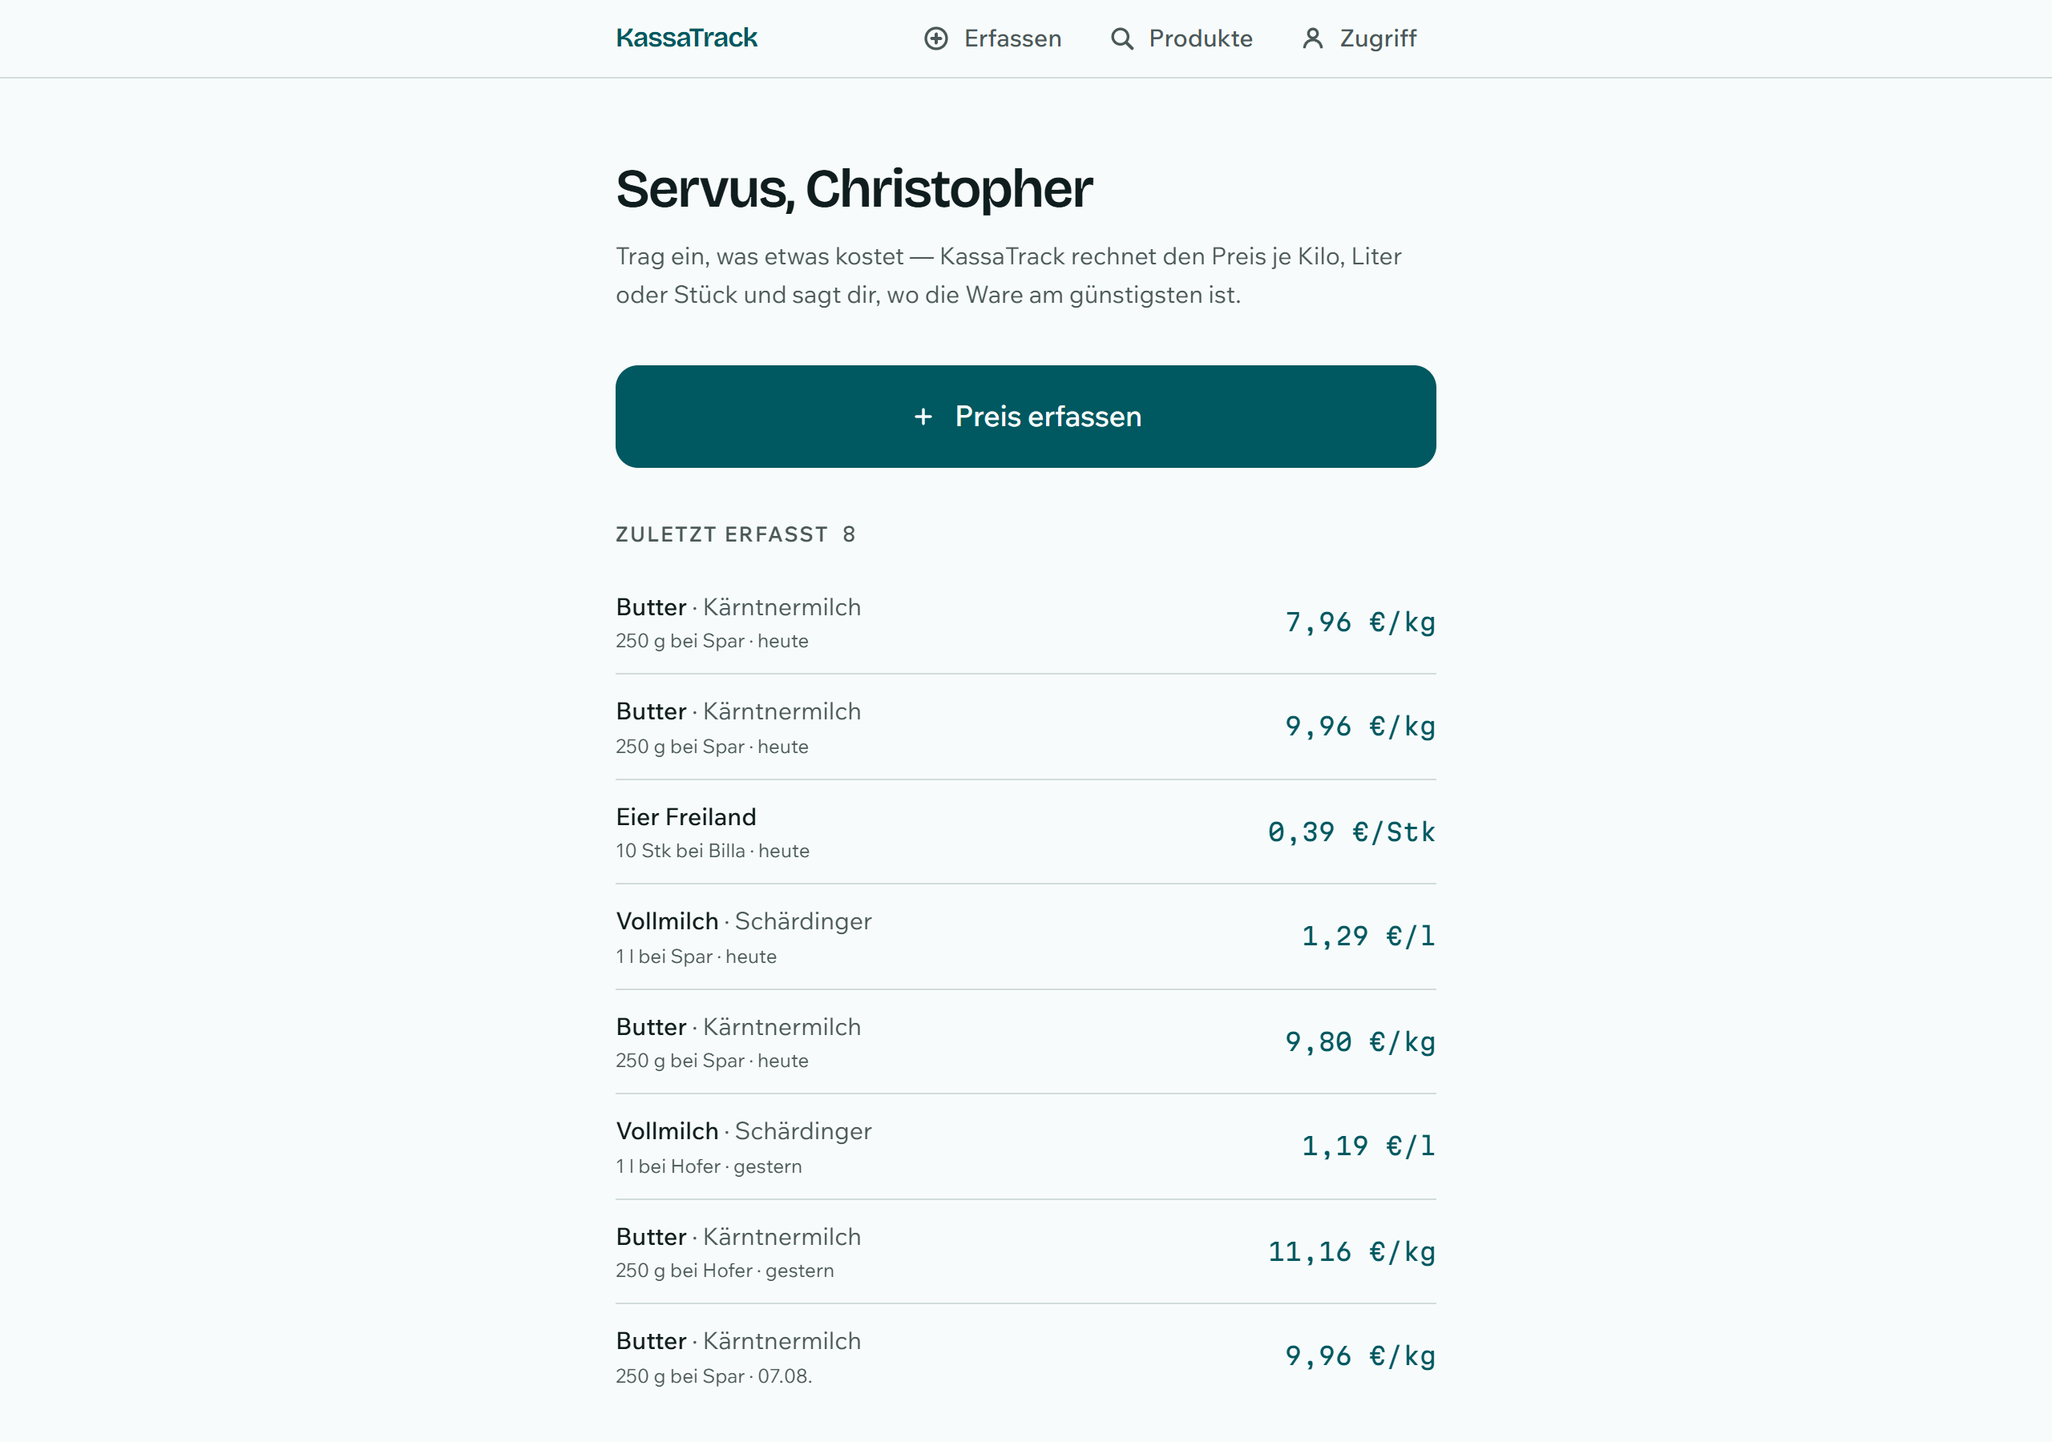
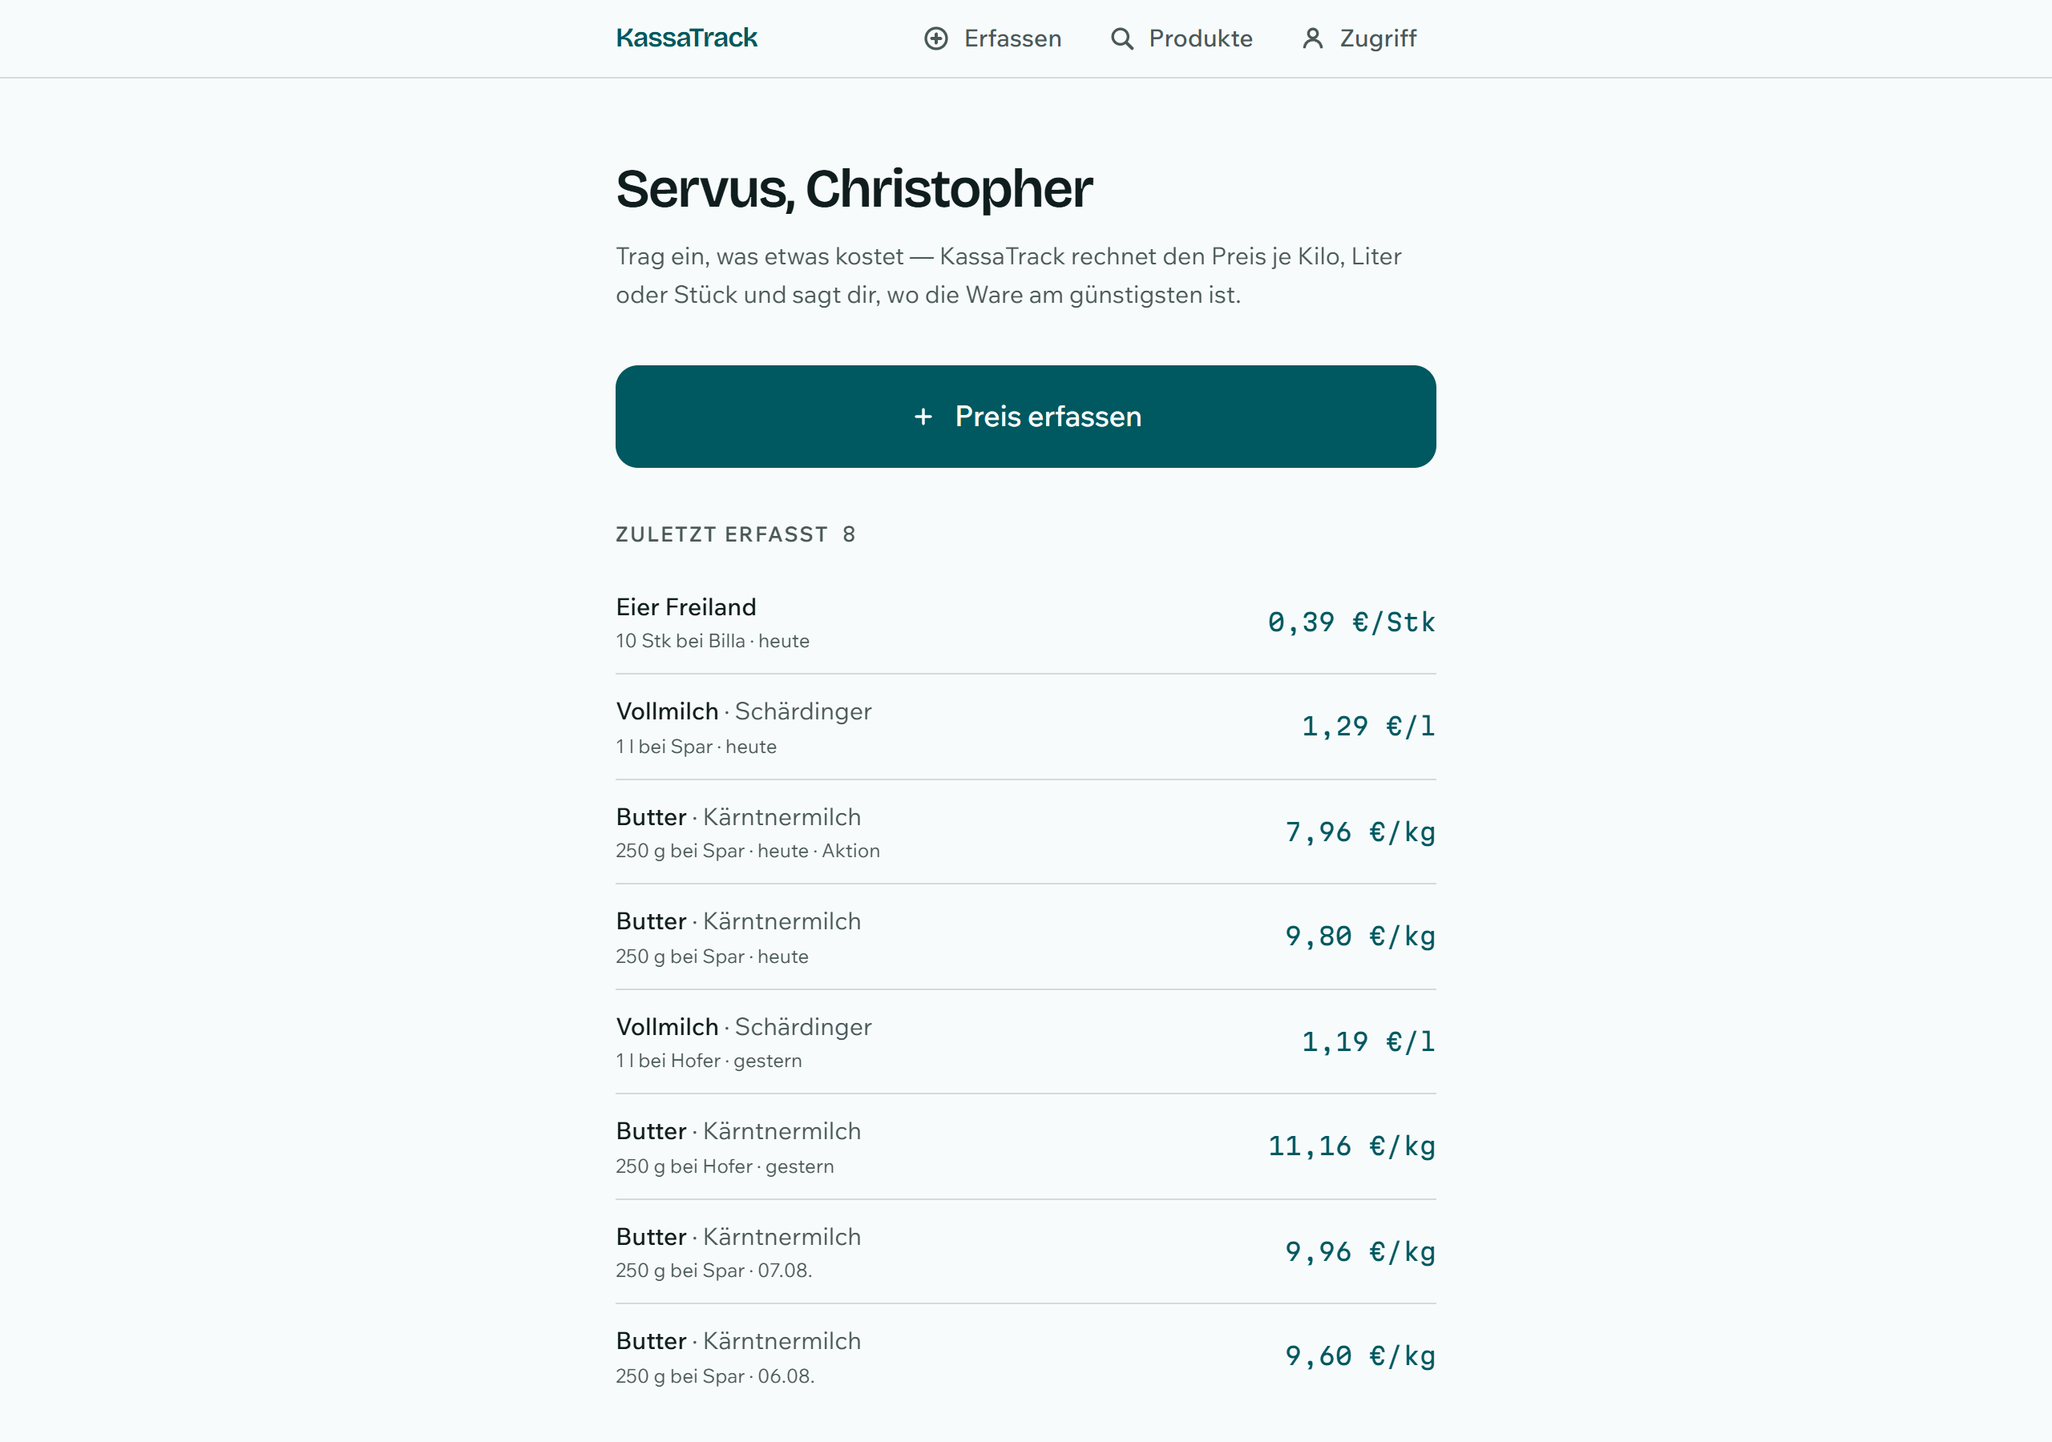
fix: Review-Runde 1 an Task 9 — Abdeckung, Aktionskennzeichnung, offene Punkte
holeLetzteErfassungen war die einzige Lesefunktion in preise.ts ohne Test
gegen echtes Postgres — ausgerechnet die mit zwei Verknuepfungen. Sechs Tests
dazu, plus ein zweites Produkt im Grundgeruest: Bei nur einem Produkt in einer
Kette saehe eine vertauschte Zuordnung genauso aus wie die richtige. Das
zweite Ordnungsmerkmal ist rot-gruen belegt — ohne desc(id) liefert Postgres
die Zeilen in Einfuegereihenfolge zurueck, also genau umgekehrt.

Auf der Startseite standen Aktionspreise ununterscheidbar neben Normalpreisen.
Zwei Butter-Preise derselben Kette von heute lasen sich wie widerspruechliche
Daten statt wie Regalpreis und Aktion — ausgerechnet auf dem meistgesehenen
Bildschirm, und ausgerechnet die Unterscheidung, um die es in diesem Plan
geht. preisart wird jetzt mitgefuehrt und angehaengt, sobald sie nicht
"Normal" ist. Gefiltert wird weiterhin nicht: Die Liste ist ein Protokoll.

benennePreisart haette es dadurch doppelt gegeben und ist deshalb zu
PREISARTEN gewandert, aus denen sie liest.

Die zurueckgestellten Punkte lagen nur im git-ignorierten Ledger und waeren
beim Merge spurlos verschwunden. Sie stehen jetzt in docs/offene-punkte.md,
die genau dagegen existiert — nur das, was nach dieser Runde offen bleibt.

start-handy.png und start-desktop.png neu gezogen: Letztere zeigte einen
Aktionspreis, damals noch ohne Kennzeichnung.

diff --git a/tests/preise.test.ts b/tests/preise.test.ts
@@ -1,7 +1,12 @@
 import { afterAll, beforeAll, beforeEach, describe, expect, it } from "bun:test";
 import { sql } from "drizzle-orm";
 import { migrate } from "drizzle-orm/node-postgres/migrator";
-import { bestesAngebot, holePreisMatrix, schreibeBeobachtung } from "@/lib/preise";
+import {
+  bestesAngebot,
+  holeLetzteErfassungen,
+  holePreisMatrix,
+  schreibeBeobachtung,
+} from "@/lib/preise";
 import { starteTestDatenbank, type TestDatenbank } from "./helfer/db";
 import { faengtFehler } from "./helfer/fehler";
 
@@ -27,10 +32,29 @@ async function grundgeruest() {
     values ('p1', 'Butter', 250, 'G')
   `);
 
+  /*
+   * Ein zweites Produkt allein für `holeLetzteErfassungen`: Die Funktion fragt
+   * quer über alle Produkte und Ketten ab, statt wie `holePreisMatrix` nach
+   * einer Kennung zu filtern. Mit nur einem Produkt ließe sich nicht zeigen,
+   * dass die beiden Verknüpfungen die richtige Zeile treffen — jede falsche
+   * Zuordnung sähe genauso aus wie die richtige.
+   *
+   * Für die übrigen Tests in dieser Datei ist es unsichtbar: Die fragen alle
+   * ausdrücklich nach `p1`.
+   */
+  await umgebung.db.execute(sql`
+    insert into product (id, name, marke, menge, einheit)
+    values ('p2', 'Vollmilch', 'Schärdinger', 1000, 'ML')
+  `);
+
   for (const kuerzel of ketten) {
     await umgebung.db.execute(sql`
       insert into store_product (id, chain_id, product_id)
       values (${"sp-" + kuerzel}, ${"c-" + kuerzel}, 'p1')
+    `);
+    await umgebung.db.execute(sql`
+      insert into store_product (id, chain_id, product_id)
+      values (${"sp2-" + kuerzel}, ${"c-" + kuerzel}, 'p2')
     `);
   }
 }
@@ -365,5 +389,154 @@ describe("bestesAngebot — das Butter-Szenario", () => {
     const { referenzSieger, heuteSieger } = bestesAngebot(await holePreisMatrix(umgebung.db, "p1"));
     expect(referenzSieger).toBeNull();
     expect(heuteSieger).toBeNull();
+  });
+});
+
+/**
+ * Schreibt eine Beobachtung mit einem gesetzten Zeitpunkt.
+ *
+ * `schreibeBeobachtung` nimmt keinen entgegen — die Spalte hat `defaultNow()`.
+ * Für die Reihenfolge braucht es aber auseinanderliegende Zeitpunkte, und für
+ * die Stichentscheidung ausdrücklich gleiche.
+ */
+async function beobachtungMitZeit(eingabe: {
+  id: string;
+  storeProductId: string;
+  chainId: string;
+  productId: string;
+  grundpreis: number;
+  vorTagen: number;
+  preisart?: string;
+}) {
+  await umgebung.db.execute(sql`
+    insert into price_observation
+      (id, store_product_id, chain_id, product_id, beobachtet_am, quelle, preisart,
+       einzelpreis, zeilensumme, grundpreis, aktion_gueltig_bis)
+    values (${eingabe.id}, ${eingabe.storeProductId}, ${eingabe.chainId}, ${eingabe.productId},
+            now() - (${String(eingabe.vorTagen)} || ' days')::interval, 'MANUAL',
+            ${eingabe.preisart ?? "NORMAL"}, 1, 1, ${eingabe.grundpreis},
+            ${eingabe.preisart === "PROMO" ? sql`now() + interval '3 days'` : sql`null`})
+  `);
+}
+
+describe("holeLetzteErfassungen", () => {
+  it("stellt das Jüngste zuoberst und schneidet bei der Obergrenze ab", async () => {
+    await beobachtungMitZeit({
+      id: "l-alt", storeProductId: "sp-spar", chainId: "c-spar", productId: "p1",
+      grundpreis: 9.6, vorTagen: 3,
+    });
+    await beobachtungMitZeit({
+      id: "l-mittel", storeProductId: "sp2-hofer", chainId: "c-hofer", productId: "p2",
+      grundpreis: 1.19, vorTagen: 2,
+    });
+    await beobachtungMitZeit({
+      id: "l-jung", storeProductId: "sp-billa", chainId: "c-billa", productId: "p1",
+      grundpreis: 10.36, vorTagen: 1,
+    });
+
+    const alle = await holeLetzteErfassungen(umgebung.db);
+    expect(alle.map((e) => e.id)).toEqual(["l-jung", "l-mittel", "l-alt"]);
+
+    // Die Obergrenze schneidet am jüngeren Ende ab, nicht am älteren.
+    const zwei = await holeLetzteErfassungen(umgebung.db, 2);
+    expect(zwei.map((e) => e.id)).toEqual(["l-jung", "l-mittel"]);
+  });
+
+  /*
+   * Die beiden Verknüpfungen. Geprüft wird über **zwei** Produkte in **zwei**
+   * Ketten: Bei nur einer Zeile sähe eine vertauschte Zuordnung genauso aus
+   * wie die richtige.
+   */
+  it("ordnet jeder Zeile ihr Produkt und ihre Kette zu", async () => {
+    await beobachtungMitZeit({
+      id: "l-butter", storeProductId: "sp-spar", chainId: "c-spar", productId: "p1",
+      grundpreis: 9.96, vorTagen: 2,
+    });
+    await beobachtungMitZeit({
+      id: "l-milch", storeProductId: "sp2-hofer", chainId: "c-hofer", productId: "p2",
+      grundpreis: 1.19, vorTagen: 1,
+    });
+
+    const [milch, butter] = await holeLetzteErfassungen(umgebung.db);
+
+    expect(milch).toMatchObject({
+      produktId: "p2", name: "Vollmilch", marke: "Schärdinger",
+      menge: 1000, einheit: "ML", kette: "hofer",
+    });
+    expect(butter).toMatchObject({
+      produktId: "p1", name: "Butter", marke: null,
+      menge: 250, einheit: "G", kette: "spar",
+    });
+  });
+
+  /*
+   * Der Grund für das zweite Ordnungsmerkmal in `orderBy`. Wer mehrere Zeilen
+   * eines Belegs erfasst, erzeugt Beobachtungen im selben Moment — ohne die
+   * Kennung als Stichentscheid käme die Startseite zwischen zwei Aufrufen in
+   * wechselnder Reihenfolge zurück, und niemandem fiele auf, warum.
+   *
+   * Nachgemessen: Streicht man `desc(priceObservation.id)` aus `orderBy`,
+   * scheitert dieser Test.
+   */
+  it("hält die Reihenfolge fest, wenn Beobachtungen denselben Zeitpunkt tragen", async () => {
+    for (const id of ["l-a", "l-b", "l-c"]) {
+      await umgebung.db.execute(sql`
+        insert into price_observation
+          (id, store_product_id, chain_id, product_id, beobachtet_am, quelle, preisart,
+           einzelpreis, zeilensumme, grundpreis)
+        values (${id}, 'sp-spar', 'c-spar', 'p1', timestamptz '2026-08-01 10:00:00+00',
+                'MANUAL', 'NORMAL', 1, 1, 9.96)
+      `);
+    }
+
+    const ersterLauf = await holeLetzteErfassungen(umgebung.db);
+    const zweiterLauf = await holeLetzteErfassungen(umgebung.db);
+
+    expect(ersterLauf.map((e) => e.id)).toEqual(["l-c", "l-b", "l-a"]);
+    expect(zweiterLauf.map((e) => e.id)).toEqual(ersterLauf.map((e) => e.id));
+  });
+
+  /*
+   * `numeric` kommt aus der Datenbank als Zeichenkette. Derselbe Fehler ist in
+   * `holePreisMatrix` schon einmal aufgetreten und dort als Falle kommentiert —
+   * hier hielte ihn sonst nichts fest: `formatiereGrundpreis` ruft `toFixed`,
+   * und auf einer Zeichenkette wirft das erst zur Laufzeit, nicht im Bau.
+   */
+  it("liefert den Grundpreis als Zahl, nicht als Zeichenkette", async () => {
+    await beobachtungMitZeit({
+      id: "l-zahl", storeProductId: "sp-spar", chainId: "c-spar", productId: "p1",
+      grundpreis: 9.96, vorTagen: 1,
+    });
+
+    const [eintrag] = await holeLetzteErfassungen(umgebung.db);
+
+    expect(typeof eintrag.grundpreis).toBe("number");
+    expect(eintrag.grundpreis).toBeCloseTo(9.96, 4);
+    expect(eintrag.beobachtetAm).toBeInstanceOf(Date);
+  });
+
+  /*
+   * Die Liste ist ein Protokoll und filtert deshalb nicht — aber sie muss
+   * sagen, was sie zeigt. Zwei Preise derselben Kette am selben Tag sind kein
+   * Widerspruch, sobald einer als Aktion gekennzeichnet ist.
+   */
+  it("führt die Preisart mit, damit eine Aktion als solche lesbar ist", async () => {
+    await beobachtungMitZeit({
+      id: "l-normal", storeProductId: "sp-spar", chainId: "c-spar", productId: "p1",
+      grundpreis: 9.96, vorTagen: 2,
+    });
+    await beobachtungMitZeit({
+      id: "l-aktion", storeProductId: "sp-spar", chainId: "c-spar", productId: "p1",
+      grundpreis: 7.96, vorTagen: 1, preisart: "PROMO",
+    });
+
+    const [aktion, normal] = await holeLetzteErfassungen(umgebung.db);
+
+    expect(aktion.preisart).toBe("PROMO");
+    expect(normal.preisart).toBe("NORMAL");
+  });
+
+  it("liefert eine leere Liste, solange nichts erfasst wurde", async () => {
+    expect(await holeLetzteErfassungen(umgebung.db)).toEqual([]);
   });
 });

diff --git a/src/lib/preise.ts b/src/lib/preise.ts
@@ -224,6 +224,13 @@ export type LetzteErfassung = {
   menge: number;
   einheit: Basiseinheit;
   kette: string;
+  /**
+   * Warum die Liste sie braucht: Zwei Preise derselben Kette am selben Tag
+   * sehen ohne diese Angabe wie widersprüchliche Daten aus. Mit ihr sind es
+   * ein Regalpreis und eine Aktion — die Unterscheidung, um die es in dieser
+   * App überhaupt geht.
+   */
+  preisart: Preisart;
   grundpreis: number;
   beobachtetAm: Date;
 };
@@ -262,6 +269,7 @@ export async function holeLetzteErfassungen(
       menge: product.menge,
       einheit: product.einheit,
       kette: chain.name,
+      preisart: priceObservation.preisart,
       grundpreis: priceObservation.grundpreis,
       beobachtetAm: priceObservation.beobachtetAm,
     })
@@ -275,11 +283,13 @@ export async function holeLetzteErfassungen(
     .limit(anzahl);
 
   // `numeric` kommt als String aus der Datenbank. Ohne Number(...) stünde auf
-  // der Startseite „9.1600" statt „9,16". `einheit` ist eine Textspalte und
-  // kommt deshalb als `string` — dieselbe Verengung wie in `@/lib/katalog`.
+  // der Startseite „9.1600" statt „9,16". `einheit` und `preisart` sind
+  // Textspalten und kommen deshalb als `string` — dieselbe Verengung wie in
+  // `@/lib/katalog`.
   return zeilen.map((zeile) => ({
     ...zeile,
     einheit: zeile.einheit as Basiseinheit,
+    preisart: zeile.preisart as Preisart,
     grundpreis: Number(zeile.grundpreis),
   }));
 }

diff --git a/src/app/page.tsx b/src/app/page.tsx
@@ -1,5 +1,6 @@
 import type { Metadata } from "next";
 import Link from "next/link";
+import { benennePreisart } from "@/app/erfassen/zustand";
 import { db } from "@/db";
 import { formatiereGrundpreis, formatierePackung } from "@/lib/einheiten";
 import { holeLetzteErfassungen, type LetzteErfassung } from "@/lib/preise";
@@ -130,9 +131,16 @@ function Liste({ eintraege }: { eintraege: LetzteErfassung[] }) {
                   <span className="font-normal text-gedaempft"> · {eintrag.marke}</span>
                 ) : null}
               </span>
+              {/*
+                Die Preisart steht dabei, sobald sie nicht „Normal" ist —
+                dieselbe Regel wie in der Liste „Erfasst" des Formulars. Ohne
+                sie läsen sich zwei Preise derselben Kette vom selben Tag wie
+                widersprüchliche Daten statt wie Regalpreis und Aktion.
+              */}
               <span className="text-xs text-gedaempft">
                 {formatierePackung(eintrag.menge, eintrag.einheit)} bei {eintrag.kette} ·{" "}
                 {formatiereWann(eintrag.beobachtetAm, jetzt)}
+                {eintrag.preisart === "NORMAL" ? "" : ` · ${benennePreisart(eintrag.preisart)}`}
               </span>
             </span>
             <span className="zahlen shrink-0 text-[0.9375rem] text-marke">

diff --git a/src/app/erfassen/erfassungs-formular.tsx b/src/app/erfassen/erfassungs-formular.tsx
@@ -4,7 +4,7 @@ import { useActionState, useId, useRef, useState, type ReactNode } from "react";
 import { Schaltflaeche } from "@/components/ui/schaltflaeche";
 import { formatiereGrundpreis, grundpreis, zerlegeMenge, zerlegePreis } from "@/lib/einheiten";
 import type { Kette } from "@/lib/katalog";
-import { PREISARTEN, type ErfassungsAktion, type Ergebnis } from "./zustand";
+import { benennePreisart, PREISARTEN, type ErfassungsAktion, type Ergebnis } from "./zustand";
 
 /**
  * Preise eintragen — vor dem Regal, einhändig, mehrere hintereinander.
@@ -591,6 +591,3 @@ function benenneKette(ketten: Kette[], kuerzel: string): string {
   return ketten.find((eintrag) => eintrag.kuerzel === kuerzel)?.name ?? kuerzel;
 }
 
-function benennePreisart(wert: string): string {
-  return PREISARTEN.find((eintrag) => eintrag.wert === wert)?.name ?? wert;
-}

diff --git a/src/app/erfassen/zustand.ts b/src/app/erfassen/zustand.ts
@@ -40,3 +40,14 @@ export const PREISARTEN: { wert: Preisart; name: string }[] = [
 export function istPreisart(wert: string): wert is Preisart {
   return PREISARTEN.some((eintrag) => eintrag.wert === wert);
 }
+
+/**
+ * Der Anzeigename einer Preisart.
+ *
+ * Steht hier neben `PREISARTEN` und nicht bei den beiden Aufrufern: Das
+ * Erfassungsformular und die Startseite schreiben dieselbe Auskunft, und zwei
+ * Kopien dieser Zuordnung liefen früher oder später auseinander.
+ */
+export function benennePreisart(wert: string): string {
+  return PREISARTEN.find((eintrag) => eintrag.wert === wert)?.name ?? wert;
+}

diff --git a/docs/offene-punkte.md b/docs/offene-punkte.md
@@ -25,3 +25,16 @@ Bewusst aufgeschobene Kleinigkeiten aus abgeschlossenen Phasen. Nichts hier bloc
 - **Keinerlei Offline-Fähigkeit.** Der Service Worker darf keine angemeldeten Inhalte zwischenspeichern; ohne Seiten im Cache gibt es nichts anzuzeigen, wenn das Netz fehlt.
 - **Drei Dockerfile-Zeilen wurden nie gebaut.** Beide möglichen Fehlerbilder brechen den Bau sichtbar ab, ein gebautes-aber-kaputtes Image kann nicht entstehen.
 - **Die Annahme, dass Coolifys Proxy `x-forwarded-for` sendet**, ist belegt zitiert, aber nicht selbst geprüft. Gepaart mit einer Protokollzeile, an der man erkennt, wenn sie nicht mehr gilt.
+
+## Aus Plan 2 (Katalog & Preis-Engine)
+
+### Warten
+
+- **Jede Anfrage schlägt die Sitzung zweimal nach.** Seit die Navigation im Wurzel-Layout sitzt, ruft dieses `holeSitzung()` und zusätzlich `istBetreiber()`, während die Seite darunter ihr eigenes `requireUser()` ruft. Fachlich richtig, aber eine Abfrage je Anfrage zu viel. `cache()` aus React wäre der übliche Weg; er verändert allerdings `src/lib/sitzung.ts`, auf das `tests/sitzung.test.ts` ausdrücklich zielt — deshalb nicht nebenbei erledigt.
+- **Berührungsgrößen sind nirgends automatisiert geprüft.** `min-h-14` und `min-h-12` stehen im Quelltext und auf den Aufnahmen unter `docs/bilder/`, aber kein Test hält sie fest; ein `min-h-8` fiele erst jemandem im Geschäft auf. Gilt für die ganze App, nicht erst seit Plan 2.
+- **Die Startseite hat kein aktives Ziel in der Navigation.** Folgerichtig — sie ist keiner der drei Bereiche, und die Wortmarke trägt dort `aria-current="page"`. Beim ersten Blick sieht es trotzdem aus, als sei nichts ausgewählt. Falls das stört, ist die Startseite ein viertes Ziel.
+
+### Bewusste Entscheidungen, keine Mängel
+
+- **Die Wortmarke ist am Handy der einzige Weg zurück zur Startseite.** Der Plan nennt drei Ziele (Erfassen, Produkte, Zugriff); die Startseite ist keines davon und wäre damit unerreichbar gewesen — als installierte PWA gibt es keine Zurück-Schaltfläche des Browsers. Die Leiste trägt deshalb unverändert die drei Ziele, und die Wortmarke führt zusätzlich heim.
+- **`holeLetzteErfassungen` filtert keine Preisarten.** Die Liste auf der Startseite ist ein Protokoll, keine Grundlage für eine Berechnung — der `PROMO`-Ausschluss gilt beim Referenzpreis, wo eine Aktion etwas verschieben könnte. Gekennzeichnet wird sie trotzdem, sonst läsen sich zwei Preise derselben Kette am selben Tag wie ein Widerspruch.
